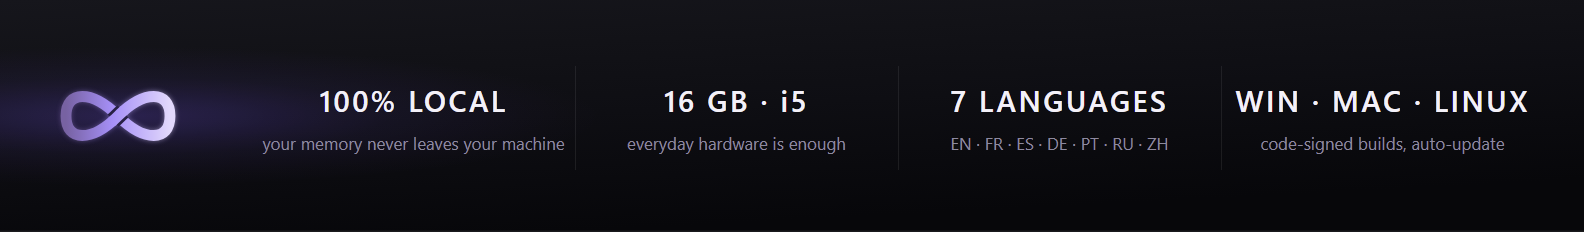
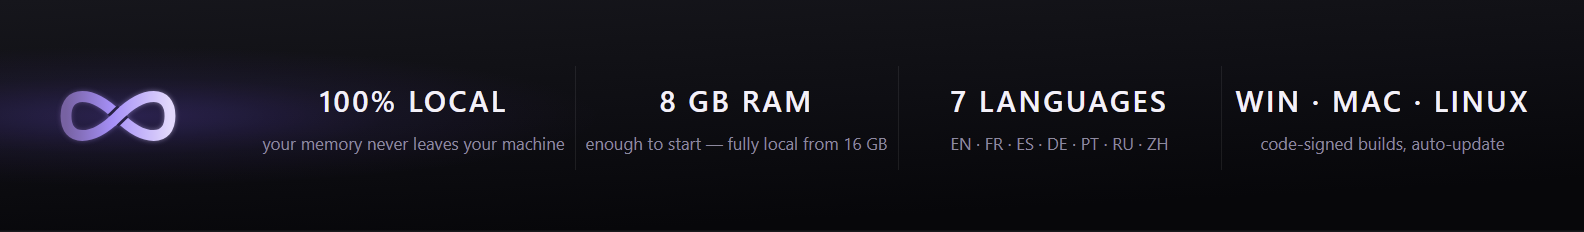
docs(readme): spec strip — 8 GB to start, confirmed by a beta user today
Cloud-credits path verified on an 8 GB machine; fully-local comfort
stays stated at 16 GB.

Changed region(s): [[0.3712, 0.5733, 0.5568, 0.6638], [0.4021, 0.3922, 0.5259, 0.4828]]

diff --git a/README.md b/README.md
@@ -42,7 +42,7 @@
 
 <br/>
 
-<img src="assets/strip-specs.png" width="100%" alt="100% local — your memory never leaves your machine · 16 GB, i5 — everyday hardware is enough · 7 languages — EN FR ES DE PT RU ZH · Windows, macOS, Linux — code-signed builds, auto-update" />
+<img src="assets/strip-specs.png" width="100%" alt="100% local — your memory never leaves your machine · 8 GB RAM — enough to start, fully local from 16 GB · 7 languages — EN FR ES DE PT RU ZH · Windows, macOS, Linux — code-signed builds, auto-update" />
 
 </div>
 
